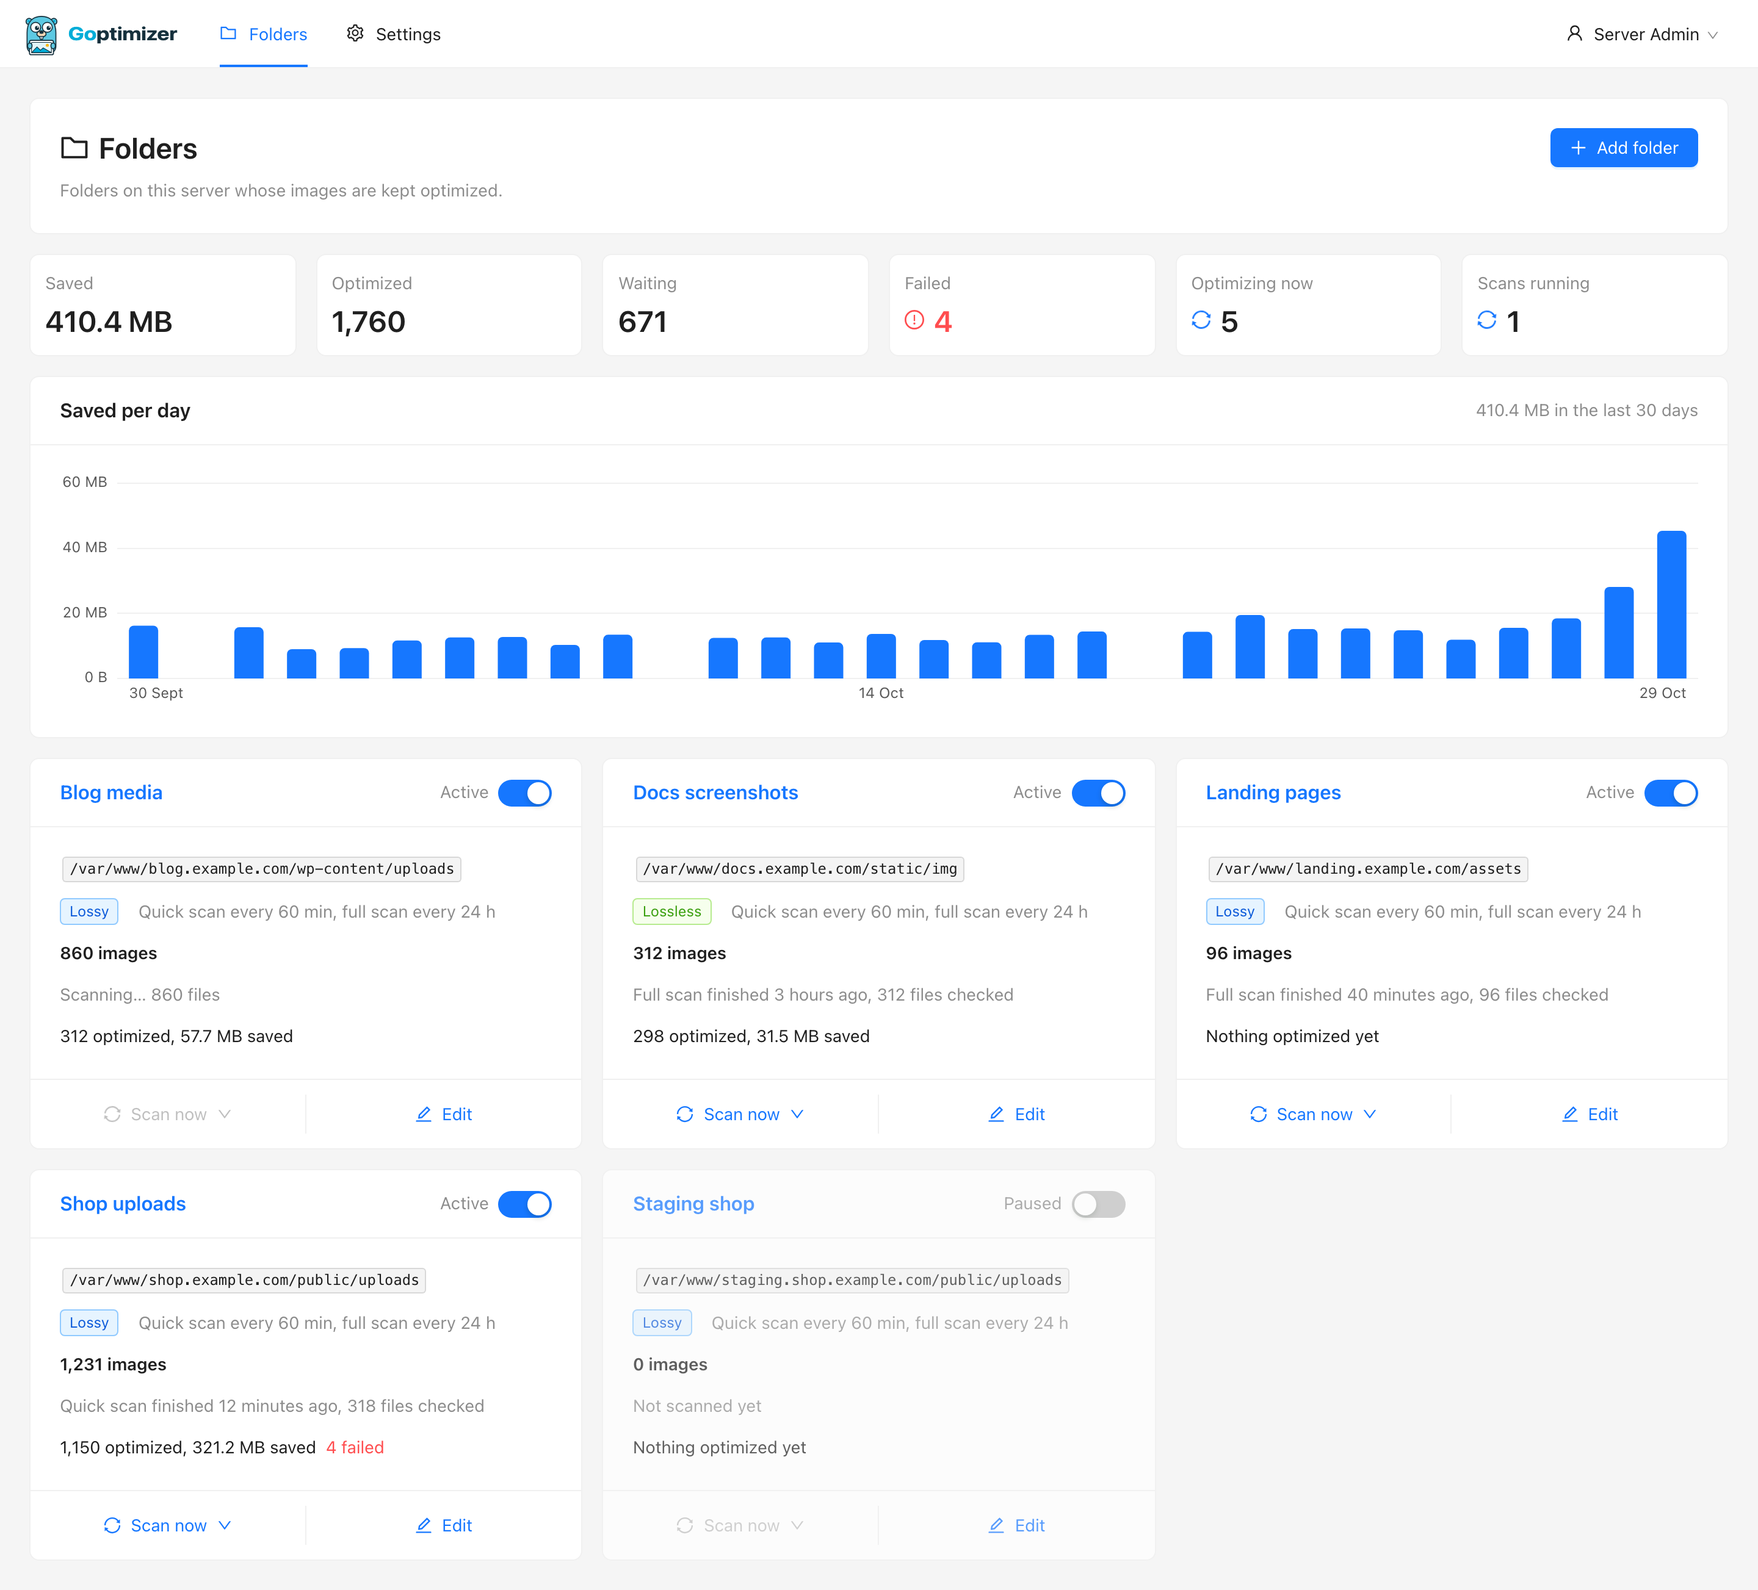
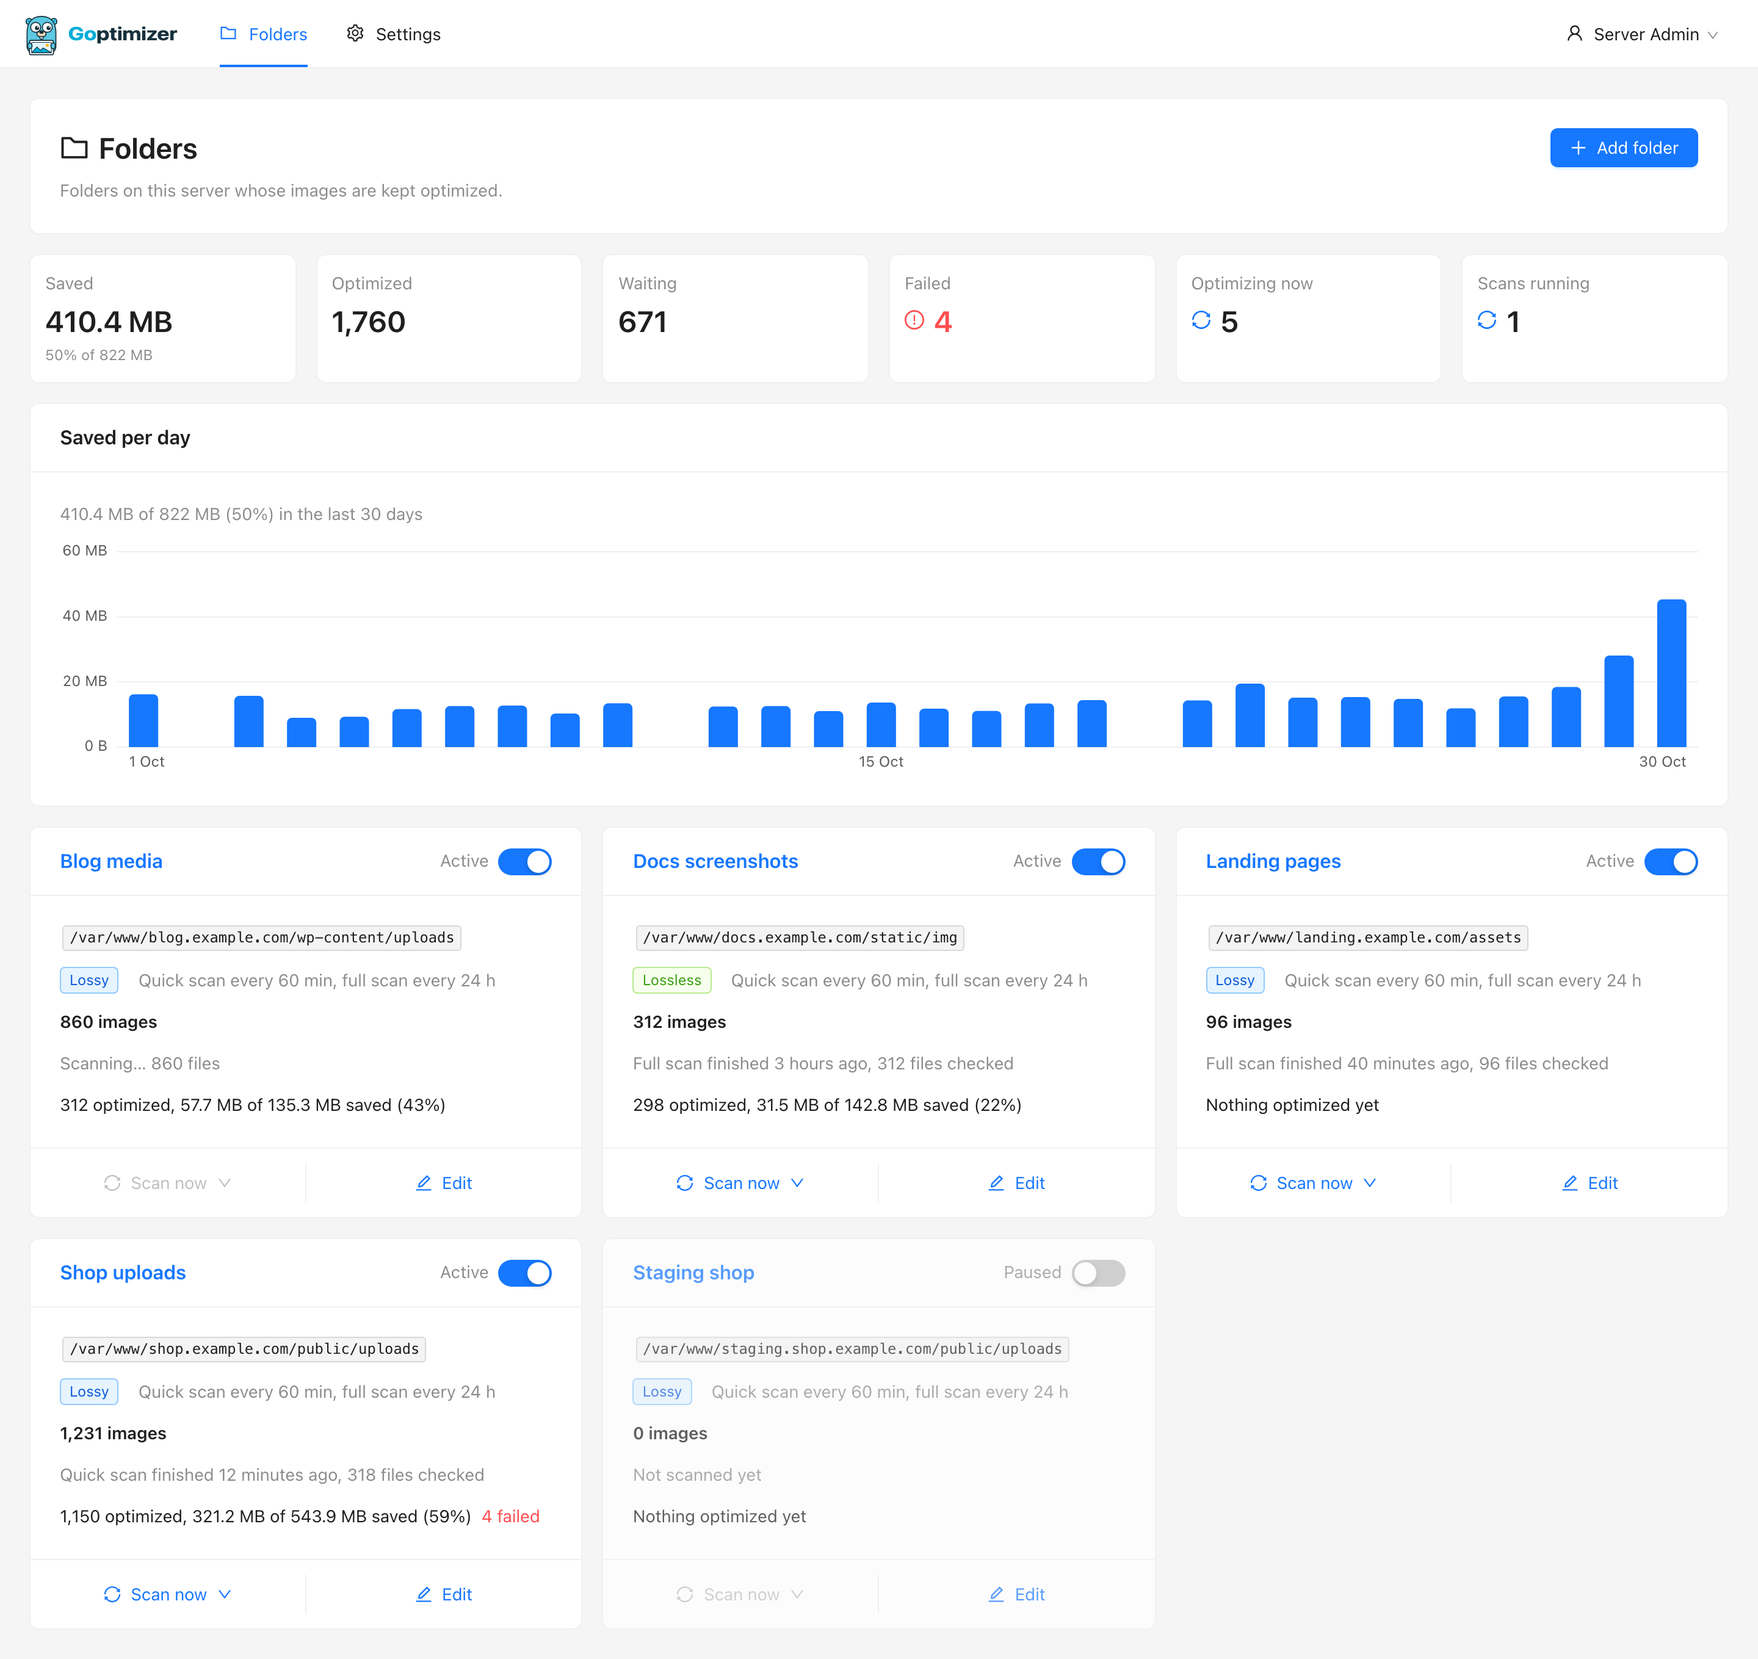
Show the original size and the percent saved next to the bytes saved
Folder responses and daily savings carry bytes_before, summed from
daily_stats. The panel shows it under the Saved tile, in the chart
summary and tooltip, and on each folder card.

diff --git a/frontend/src/features/folders/components/SavingsCard.tsx b/frontend/src/features/folders/components/SavingsCard.tsx
@@ -3,9 +3,9 @@ import { Card, Typography, theme } from 'antd'
 import { useTranslation } from 'react-i18next'
 import type { ID } from '@/api/types'
 import { useElementWidth } from '@/shared/hooks/useElementWidth'
-import { formatBytes, formatDay, formatNumber } from '@/shared/utils/format'
+import { formatBytes, formatDay, formatNumber, formatPercent } from '@/shared/utils/format'
 import { useDailySavings } from '../hooks'
-import { byteTicks, totalSaved } from '../savings'
+import { byteTicks, savedPercent, totalSavings } from '../savings'
 import type { DaySavings } from '../types'
 
 const PLOT_TOP = 8
@@ -30,19 +30,23 @@ interface Props {
 export function SavingsCard({ folderId, refetchInterval, testId }: Props) {
   const { t } = useTranslation()
   const savings = useDailySavings(folderId, refetchInterval)
-  const total = savings.data ? totalSaved(savings.data) : undefined
+  const { token } = theme.useToken()
+  const total = savings.data ? totalSavings(savings.data) : undefined
 
   return (
     <Card
       data-testid={testId}
-      data-total={total}
+      data-total={total?.saved}
+      data-before={total?.before}
       title={t('savings.title')}
-      extra={
-        total !== undefined && (
-          <Typography.Text type="secondary">{total > 0 ? t('savings.total', { saved: formatBytes(total) }) : t('savings.none')}</Typography.Text>
-        )
-      }
     >
+      {total !== undefined && (
+        <Typography.Paragraph type="secondary" style={{ marginBottom: token.marginSM }}>
+          {total.saved > 0
+            ? t('savings.total', { saved: formatBytes(total.saved), before: formatBytes(total.before), percent: formatPercent(savedPercent(total)) })
+            : t('savings.none')}
+        </Typography.Paragraph>
+      )}
       <SavingsChart days={savings.data ?? []} />
     </Card>
   )
@@ -67,7 +71,9 @@ function SavingsChart({ days }: { days: DaySavings[] }) {
   const barLeft = (index: number) => slotLeft(index) + (slot - barWidth) / 2
   const focusable = tabStop ?? days.length - 1
 
-  const saved = (day: DaySavings) => t('savings.saved', { saved: formatBytes(day.bytes_saved) })
+  const saved = (day: DaySavings) =>
+    t('savings.saved', { saved: formatBytes(day.bytes_saved), percent: formatPercent(savedPercent({ saved: day.bytes_saved, before: day.bytes_before })) })
+  const sizes = (day: DaySavings) => t('savings.sizes', { before: formatBytes(day.bytes_before), after: formatBytes(day.bytes_before - day.bytes_saved) })
   const optimized = (day: DaySavings) => t('savings.images', { count: day.optimized, images: formatNumber(day.optimized, 0) })
 
   const onKeyDown = (event: KeyboardEvent, index: number) => {
@@ -135,9 +141,10 @@ function SavingsChart({ days }: { days: DaySavings[] }) {
               }}
               data-testid={`savings-day-${entry.day}`}
               data-bytes={entry.bytes_saved}
+              data-before={entry.bytes_before}
               data-count={entry.optimized}
               role="img"
-              aria-label={`${formatDay(entry.day, 'long')}: ${saved(entry)}, ${optimized(entry)}`}
+              aria-label={`${formatDay(entry.day, 'long')}: ${saved(entry)}, ${sizes(entry)}, ${optimized(entry)}`}
               tabIndex={index === focusable ? 0 : -1}
               x={slotLeft(index)}
               y={PLOT_TOP}
@@ -177,6 +184,7 @@ function SavingsChart({ days }: { days: DaySavings[] }) {
           }}
         >
           <div style={{ fontSize: token.fontSize, fontWeight: token.fontWeightStrong, color: token.colorText }}>{saved(day)}</div>
+          {day.optimized > 0 && <div style={{ color: token.colorText }}>{sizes(day)}</div>}
           <div style={{ color: token.colorText }}>{optimized(day)}</div>
           <div style={{ color: token.colorTextSecondary }}>{formatDay(day.day, 'long')}</div>
         </div>

diff --git a/frontend/src/features/folders/components/FolderStats.tsx b/frontend/src/features/folders/components/FolderStats.tsx
@@ -2,14 +2,17 @@ import type { ReactNode } from 'react'
 import { Card, Col, Row, Typography, theme } from 'antd'
 import { ExclamationCircleOutlined, SyncOutlined } from '@ant-design/icons'
 import { useTranslation } from 'react-i18next'
-import { formatBytes, formatCount } from '@/shared/utils/format'
+import { formatBytes, formatCount, formatPercent } from '@/shared/utils/format'
 import { folderTotals } from '../overview'
+import { savedPercent } from '../savings'
 import type { Folder } from '../types'
 
 interface Tile {
   id: 'saved' | 'optimized' | 'pending' | 'failed' | 'optimizing' | 'scans'
   total: number
   value: string
+  /** A line under the value. */
+  caption?: string
   icon?: ReactNode
   danger?: boolean
 }
@@ -19,10 +22,16 @@ export function FolderStats({ folders, testId }: { folders: readonly Folder[]; t
   const { t } = useTranslation()
   const { token } = theme.useToken()
   const totals = folderTotals(folders)
+  const percent = savedPercent({ saved: totals.bytesSaved, before: totals.bytesBefore })
   const working = (count: number) => (count > 0 ? <SyncOutlined spin /> : undefined)
 
   const tiles: Tile[] = [
-    { id: 'saved', total: totals.bytesSaved, value: formatBytes(totals.bytesSaved) },
+    {
+      id: 'saved',
+      total: totals.bytesSaved,
+      value: formatBytes(totals.bytesSaved),
+      caption: percent === null ? undefined : t('overview.savedOf', { percent: formatPercent(percent), before: formatBytes(totals.bytesBefore) }),
+    },
     { id: 'optimized', total: totals.optimized, value: formatCount(totals.optimized) },
     { id: 'pending', total: totals.pending, value: formatCount(totals.pending) },
     {
@@ -57,6 +66,11 @@ export function FolderStats({ folders, testId }: { folders: readonly Folder[]; t
               {tile.icon && <span style={{ fontSize: token.fontSizeLG, color: tile.danger ? undefined : token.colorPrimary }}>{tile.icon}</span>}
               {tile.value}
             </div>
+            {tile.caption && (
+              <Typography.Text type="secondary" data-testid={`${testId}-${tile.id}-caption`} style={{ fontSize: token.fontSizeSM }}>
+                {tile.caption}
+              </Typography.Text>
+            )}
           </Card>
         </Col>
       ))}

diff --git a/frontend/src/features/folders/pages/FoldersPage.tsx b/frontend/src/features/folders/pages/FoldersPage.tsx
@@ -5,13 +5,14 @@ import { useTranslation } from 'react-i18next'
 import { PageHeader } from '@/shared/components/PageHeader'
 import { PageError, PageLoading } from '@/shared/components/PageState'
 import { PageStack } from '@/shared/components/PageStack'
-import { formatBytes, formatNumber } from '@/shared/utils/format'
+import { formatBytes, formatNumber, formatPercent } from '@/shared/utils/format'
 import { FolderModeTag, MissingToolsAlert } from '../components/FolderSummary'
 import { FolderStats } from '../components/FolderStats'
 import { SavingsCard } from '../components/SavingsCard'
 import { useFolderControls } from '../components/useFolderControls'
 import { useFolders } from '../hooks'
 import { pollInterval } from '../overview'
+import { savedPercent } from '../savings'
 import { imagesIn, indexedImages, scanLine } from '../scans'
 import type { Folder } from '../types'
 
@@ -112,7 +113,13 @@ function FolderCard({ folder }: { folder: Folder }) {
         <Space size={token.marginXS} wrap>
           <Typography.Text data-testid={`folder-optimized-${folder.id}`} data-count={optimized} data-bytes={folder.bytes_saved}>
             {optimized > 0 || folder.bytes_saved > 0
-              ? t('folders.optimize.summary', { count: optimized, images: formatNumber(optimized, 0), saved: formatBytes(folder.bytes_saved) })
+              ? t('folders.optimize.summary', {
+                  count: optimized,
+                  images: formatNumber(optimized, 0),
+                  saved: formatBytes(folder.bytes_saved),
+                  before: formatBytes(folder.bytes_before),
+                  percent: formatPercent(savedPercent({ saved: folder.bytes_saved, before: folder.bytes_before })),
+                })
               : t('folders.optimize.none')}
           </Typography.Text>
           {failed > 0 && (

diff --git a/frontend/src/features/folders/overview.test.ts b/frontend/src/features/folders/overview.test.ts
@@ -4,22 +4,22 @@ import { folderTotals, pollInterval, POLL_WAITING, POLL_WORKING } from './overvi
 import type { Folder, Scan } from './types'
 
 const folder = (overrides: Partial<Folder> = {}): Folder =>
-  ({ enabled: true, missing_tools: [], image_counts: {}, bytes_saved: 0, last_scan: null, ...overrides }) as Folder
+  ({ enabled: true, missing_tools: [], image_counts: {}, bytes_saved: 0, bytes_before: 0, last_scan: null, ...overrides }) as Folder
 
 const scan = (status: Scan['status']) => ({ status }) as Scan
 
 describe('folderTotals', () => {
   it('adds up every folder', () => {
     const totals = folderTotals([
-      folder({ bytes_saved: 1000, image_counts: { optimized: 3, pending: 2, failed: 1 }, last_scan: scan('running') }),
-      folder({ bytes_saved: 500, image_counts: { optimized: 1, optimizing: 2 }, last_scan: scan('succeeded') }),
+      folder({ bytes_saved: 1000, bytes_before: 4000, image_counts: { optimized: 3, pending: 2, failed: 1 }, last_scan: scan('running') }),
+      folder({ bytes_saved: 500, bytes_before: 1000, image_counts: { optimized: 1, optimizing: 2 }, last_scan: scan('succeeded') }),
       folder({ last_scan: scan('queued') }),
     ])
-    assert.deepEqual(totals, { bytesSaved: 1500, optimized: 4, pending: 2, failed: 1, optimizing: 2, scans: 2 })
+    assert.deepEqual(totals, { bytesSaved: 1500, bytesBefore: 5000, optimized: 4, pending: 2, failed: 1, optimizing: 2, scans: 2 })
   })
 
   it('is all zero without folders', () => {
-    assert.deepEqual(folderTotals([]), { bytesSaved: 0, optimized: 0, pending: 0, failed: 0, optimizing: 0, scans: 0 })
+    assert.deepEqual(folderTotals([]), { bytesSaved: 0, bytesBefore: 0, optimized: 0, pending: 0, failed: 0, optimizing: 0, scans: 0 })
   })
 })
 

diff --git a/frontend/src/features/folders/savings.test.ts b/frontend/src/features/folders/savings.test.ts
@@ -1,7 +1,7 @@
 import { describe, it } from 'node:test'
 import assert from 'node:assert/strict'
 import { formatBytes } from '@/shared/utils/format'
-import { byteTicks, totalSaved } from './savings'
+import { byteTicks, savedPercent, totalSavings } from './savings'
 import type { DaySavings } from './types'
 
 const KB = 1024
@@ -31,13 +31,23 @@ describe('byteTicks', () => {
   })
 })
 
-describe('totalSaved', () => {
+describe('totalSavings', () => {
   it('adds up the days', () => {
     const days = [
-      { day: '2026-10-28', optimized: 2, bytes_saved: 300 },
-      { day: '2026-10-29', optimized: 0, bytes_saved: 0 },
-      { day: '2026-10-30', optimized: 1, bytes_saved: 200 },
+      { day: '2026-10-28', optimized: 2, bytes_saved: 300, bytes_before: 1000 },
+      { day: '2026-10-29', optimized: 0, bytes_saved: 0, bytes_before: 0 },
+      { day: '2026-10-30', optimized: 1, bytes_saved: 200, bytes_before: 1000 },
     ] satisfies DaySavings[]
-    assert.equal(totalSaved(days), 500)
+    assert.deepEqual(totalSavings(days), { saved: 500, before: 2000 })
+  })
+})
+
+describe('savedPercent', () => {
+  it('is the share of the original size saved', () => {
+    assert.equal(savedPercent({ saved: 500, before: 2000 }), 25)
+  })
+
+  it('is null before anything was optimized', () => {
+    assert.equal(savedPercent({ saved: 0, before: 0 }), null)
   })
 })

diff --git a/frontend/tests/e2e/own-session/folder-page.spec.ts b/frontend/tests/e2e/own-session/folder-page.spec.ts
@@ -57,12 +57,16 @@ test.describe('Folder page', () => {
     await expect(page).toHaveURL(new RegExp(`/folders/${id}$`))
     await expect(folderPage.root).toBeVisible()
     await expect(folderPage.stat('saved')).toHaveAttribute('data-value', '220000')
+    await expect(folderPage.statCaption('saved')).toBeVisible()
+    await expect(folderPage.savingsCard).toHaveAttribute('data-total', '220000')
+    await expect(folderPage.savingsCard).toHaveAttribute('data-before', '350000')
     await expect(folderPage.stat('optimized')).toHaveAttribute('data-value', '2')
     await expect(folderPage.stat('pending')).toHaveAttribute('data-value', '1')
     await expect(folderPage.stat('failed')).toHaveAttribute('data-value', '1')
 
     const today = folderPage.savingsDay(utcDay(0))
     await expect(today).toHaveAttribute('data-bytes', '200000')
+    await expect(today).toHaveAttribute('data-before', '300000')
     await expect(today).toHaveAttribute('data-count', '2')
     await expect(folderPage.savingsDay(utcDay(1))).toHaveAttribute('data-bytes', '0')
     await today.hover()

diff --git a/frontend/src/features/folders/savings.ts b/frontend/src/features/folders/savings.ts
@@ -21,6 +21,17 @@ export function byteTicks(max: number): number[] {
   return Array.from({ length: count + 1 }, (_, i) => Math.round(i * step * unit))
 }
 
-export function totalSaved(days: readonly DaySavings[]): number {
-  return days.reduce((total, day) => total + day.bytes_saved, 0)
+export interface Savings {
+  saved: number
+  /** What the optimized images weighed before. */
+  before: number
+}
+
+export function totalSavings(days: readonly DaySavings[]): Savings {
+  return days.reduce((total, day) => ({ saved: total.saved + day.bytes_saved, before: total.before + day.bytes_before }), { saved: 0, before: 0 })
+}
+
+/** The share of the original size that was saved, 0 to 100; null before anything was optimized. */
+export function savedPercent({ saved, before }: Savings): number | null {
+  return before > 0 ? (saved / before) * 100 : null
 }

diff --git a/frontend/src/features/folders/overview.ts b/frontend/src/features/folders/overview.ts
@@ -4,6 +4,8 @@ import type { Folder } from './types'
 /** What the folders add up to: the figures of the overview tiles. */
 export interface Totals {
   bytesSaved: number
+  /** What the optimized images weighed before. */
+  bytesBefore: number
   optimized: number
   pending: number
   failed: number
@@ -16,6 +18,7 @@ export function folderTotals(folders: readonly Folder[]): Totals {
   const sum = (count: (folder: Folder) => number) => folders.reduce((total, folder) => total + count(folder), 0)
   return {
     bytesSaved: sum((folder) => folder.bytes_saved),
+    bytesBefore: sum((folder) => folder.bytes_before),
     optimized: sum((folder) => imagesIn(folder, 'optimized')),
     pending: sum((folder) => imagesIn(folder, 'pending')),
     failed: sum((folder) => imagesIn(folder, 'failed')),

diff --git a/frontend/tests/e2e/pages/FolderPage.ts b/frontend/tests/e2e/pages/FolderPage.ts
@@ -23,7 +23,15 @@ export class FolderPage extends BasePage {
     return this.page.getByTestId(`folder-stats-${tile}`)
   }
 
-  /** One day's column of the chart: `data-bytes` and `data-count`. */
+  statCaption(tile: StatTile): Locator {
+    return this.page.getByTestId(`folder-stats-${tile}-caption`)
+  }
+
+  get savingsCard(): Locator {
+    return this.page.getByTestId('folder-savings-chart')
+  }
+
+  /** One day's column of the chart: `data-bytes`, `data-before` and `data-count`. */
   savingsDay(day: string): Locator {
     return this.page.getByTestId('folder-savings-chart').getByTestId(`savings-day-${day}`)
   }

diff --git a/frontend/src/shared/utils/format.ts b/frontend/src/shared/utils/format.ts
@@ -47,6 +47,12 @@ export function formatDay(day: string, style: 'short' | 'long' = 'short'): strin
   return new Intl.DateTimeFormat(LOCALES[lang], { ...options, timeZone: 'UTC' }).format(date)
 }
 
+/** A share out of 100, whole: "24%". */
+export function formatPercent(value: number | null | undefined): string {
+  if (missing(value)) return EMPTY
+  return `${formatNumber(value, 0)}%`
+}
+
 /** A byte count in binary units: "512 B", "1.5 KB", "3.2 MB". */
 export function formatBytes(bytes: number | null | undefined): string {
   if (missing(bytes)) return EMPTY

diff --git a/frontend/src/api/schema.ts b/frontend/src/api/schema.ts
@@ -176,6 +176,7 @@ export interface InternalFoldersFolderRequest {
 }
 
 export interface InternalFoldersFolderResponse {
+  bytes_before: number;
   bytes_saved: number;
   created_at: string;
   enabled: boolean;
@@ -221,6 +222,7 @@ export interface InternalImagesDailySavingsResponse {
 }
 
 export interface InternalImagesDaySavingsResponse {
+  bytes_before: number;
   bytes_saved: number;
   day: string;
   optimized: number;

diff --git a/frontend/src/features/folders/folderForm.test.ts b/frontend/src/features/folders/folderForm.test.ts
@@ -15,6 +15,7 @@ const folder: Folder = {
   last_scan: null,
   image_counts: {},
   bytes_saved: 0,
+  bytes_before: 0,
   missing_tools: [],
   created_at: '2026-10-28T10:00:00Z',
   updated_at: '2026-10-28T10:00:00Z',
